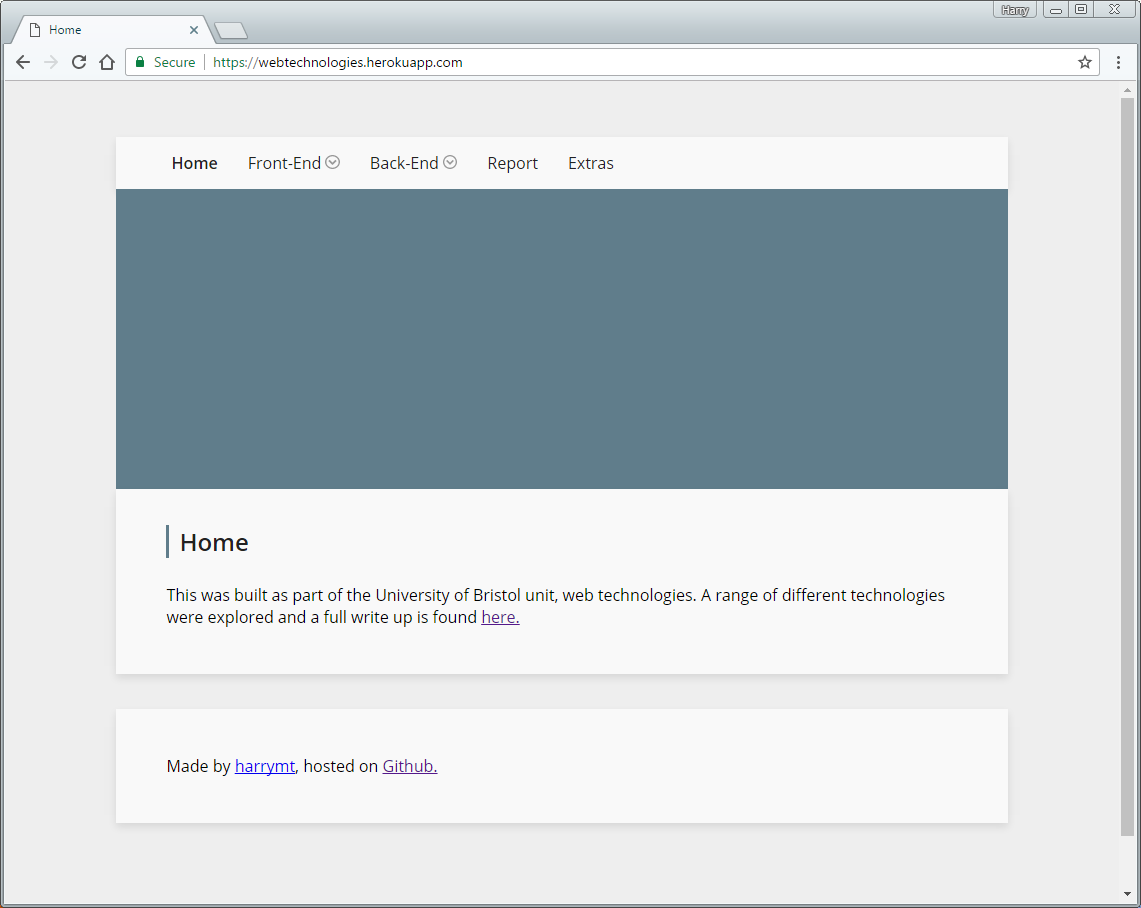
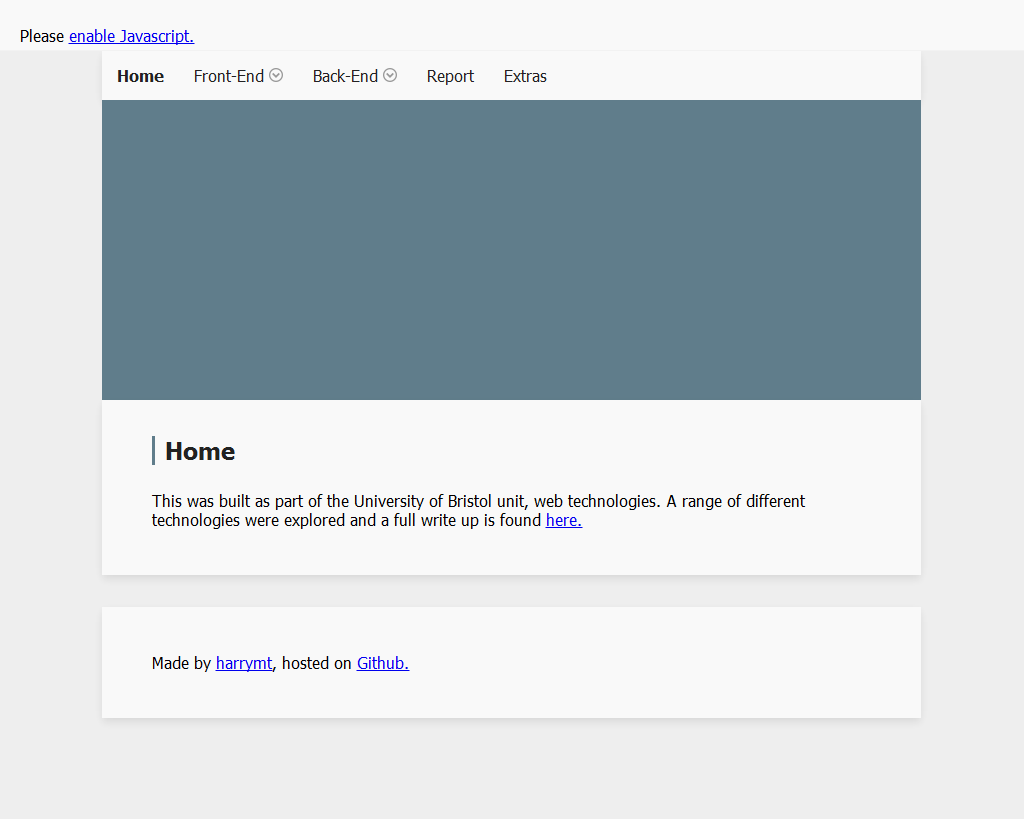
Added screenshot taking capibilities

Changed region(s): [[0.0, 0.0, 1.0, 1.0], [0.125, 0.7326, 0.875, 0.7631], [0.125, 0.7937, 0.4062, 0.8547]]

diff --git a/Gruntfile.js b/Gruntfile.js
@@ -1,5 +1,7 @@
 'use strict';
 
+const production_url = "https://webtechnologies.herokuapp.com/";
+
 module.exports = function (grunt) {
 
   grunt.initConfig({
@@ -11,6 +13,7 @@ module.exports = function (grunt) {
     exec: {
       mocha: 'npm test',
       server: 'node server',
+      screenshot: 'grunt webshot && git commit -am "Auto generated screenshot" && git push',
       deploy: 'git checkout heroku/master && git pull && git checkout master && git push heroku master'
     },
 
@@ -76,11 +79,11 @@ module.exports = function (grunt) {
     pagespeed: {
       options: {
         nokey: true,
-        url: "https://webtechnologies.herokuapp.com/"
+        url: production_url
       },
       prod: {
         options: {
-          url: "https://webtechnologies.herokuapp.com/",
+          url: production_url,
           locale: "en_GB",
           strategy: "desktop",
           threshold: 90
@@ -94,8 +97,27 @@ module.exports = function (grunt) {
           threshold: 90
         }
       }
-    }
+    },
 
+    webshot: {
+        homepage: {
+            options: {
+                // url, file or html
+                siteType: 'url',
+                site: production_url,
+                savePath: './screenshot.png',
+                windowSize: {
+                    width: 1024,
+                    height: 768
+                },
+                shotSize: {
+                    width: 1024,
+                    height: 'all'
+                },
+                renderDelay: 0
+            }
+        }
+    }
   });
 
 
@@ -106,6 +128,7 @@ module.exports = function (grunt) {
   grunt.loadNpmTasks('grunt-contrib-watch'); // On file update, do task
   grunt.loadNpmTasks('grunt-exec'); // Run command line commands
   grunt.loadNpmTasks('grunt-pagespeed'); // Test page performance
+  grunt.loadNpmTasks('grunt-webshot'); // Take a screenshot
 
   // Start a node server
   grunt.registerTask('server', ['exec:server']);
@@ -119,8 +142,8 @@ module.exports = function (grunt) {
   // Run unit tests and linting
   grunt.registerTask('tests', ['exec:mocha', 'lint']);
 
-  // Deploy to heroku server then run page insight tests
-  grunt.registerTask('deploy', ['tests', 'build', 'exec:deploy', 'pagespeed']);
+  // Deploy to heroku server, take screenshot then run page insight tests
+  grunt.registerTask('deploy', ['tests', 'build', 'exec:deploy', 'exec:screenshot', 'pagespeed']);
 
   // Do what you expect the default task to do
   grunt.registerTask('default', ['tests', 'build', 'server']);
